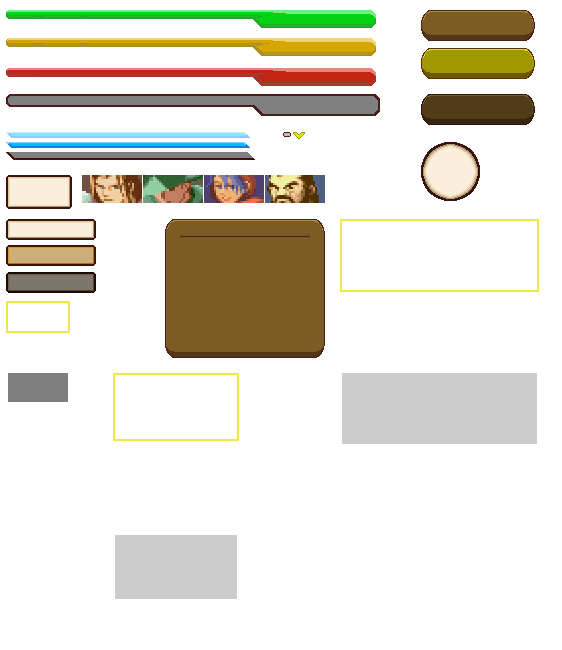
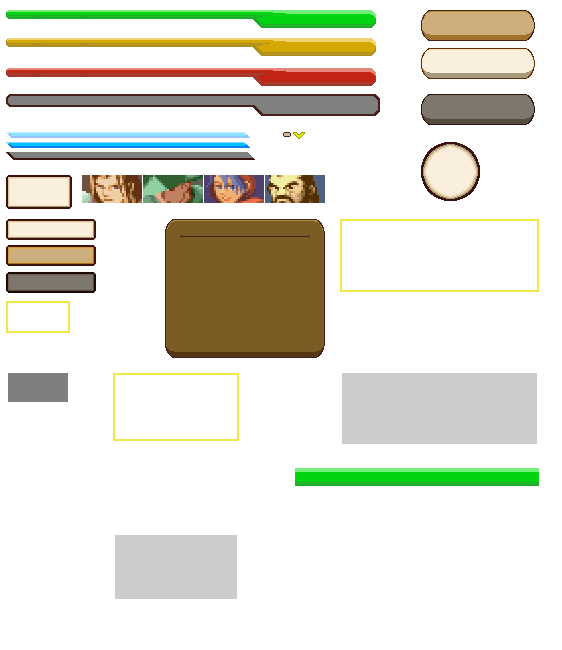
volume bar, changed buttons, centered settings

Changed region(s): [[0.726, 0.0, 0.968, 0.2154], [0.5142, 0.7077, 0.968, 0.7692]]

diff --git a/src/settingsScene.cpp b/src/settingsScene.cpp
@@ -93,24 +93,24 @@ void settingsScene::loadSceneUi() {
 	int modx = 40;
 
 	// Provisional: Positions should be loaded from XML
-	music_down = (Buttons*)App->gui->createButton(MUSIC_VOL_DOWN, LARGE, 0, { config.child("window").child("resolution").attribute("width").as_int() / 2 - 450, 250 }, this);
-	music_up = (Buttons*)App->gui->createButton(MUSIC_VOL_UP, LARGE, 0, { config.child("window").child("resolution").attribute("width").as_int() / 2 + 450, 250 }, this);
-	sfx_down = (Buttons*)App->gui->createButton(SFX_VOL_DOWN, LARGE, 0, { config.child("window").child("resolution").attribute("width").as_int() / 2 - 450, 400 }, this);
-	sfx_up = (Buttons*)App->gui->createButton(SFX_VOL_UP, LARGE, 0, { config.child("window").child("resolution").attribute("width").as_int() / 2 + 450, 400 }, this);
-	colliders = (Buttons*)App->gui->createButton(COLLIDERS, LARGE, 0, { config.child("window").child("resolution").attribute("width").as_int() / 2, 550 }, this);
-	parallax = (Buttons*)App->gui->createButton(PARALLAX, LARGE, 0, { config.child("window").child("resolution").attribute("width").as_int() / 2, 700 }, this);
-	back = (Buttons*)App->gui->createButton(BACK, LARGE, 0, { config.child("window").child("resolution").attribute("width").as_int() / 2, 850 }, this);
+	music_down = (Buttons*)App->gui->createButton(MUSIC_VOL_DOWN, MEDIUM, 0, { config.child("window").child("resolution").attribute("width").as_int() / 2 - 350, 265 }, this);
+	music_up = (Buttons*)App->gui->createButton(MUSIC_VOL_UP, MEDIUM, 0, { config.child("window").child("resolution").attribute("width").as_int() / 2 + 410, 265 }, this);
+	sfx_down = (Buttons*)App->gui->createButton(SFX_VOL_DOWN, MEDIUM, 0, { config.child("window").child("resolution").attribute("width").as_int() / 2 - 350, 425 }, this);
+	sfx_up = (Buttons*)App->gui->createButton(SFX_VOL_UP, MEDIUM, 0, { config.child("window").child("resolution").attribute("width").as_int() / 2 + 410, 425 }, this);
+	colliders = (Buttons*)App->gui->createButton(COLLIDERS, MEDIUM, 0, { config.child("window").child("resolution").attribute("width").as_int() / 2+20, 550 }, this);
+	parallax = (Buttons*)App->gui->createButton(PARALLAX, MEDIUM, 0, { config.child("window").child("resolution").attribute("width").as_int() / 2+20, 700 }, this);
+	back = (Buttons*)App->gui->createButton(BACK, MEDIUM, 0, { config.child("window").child("resolution").attribute("width").as_int() / 2+20, 850 }, this);
 	// Provisional: Data should be loaded from XML
-	l_music_down = (Labels*)App->gui->createLabel("Volume Down", { 255, 255, 255 }, App->fonts->large_size, { config.child("window").child("resolution").attribute("width").as_int() / 2 - 450 + modx, 250 + mody }, this);
-	l_music_up = (Labels*)App->gui->createLabel("Volume Up", { 255, 255, 255 }, App->fonts->large_size, { config.child("window").child("resolution").attribute("width").as_int() / 2 + 450 + modx, 250 + mody}, this);
-	l_sfx_down = (Labels*)App->gui->createLabel("SFX Down", { 255, 255, 255 }, App->fonts->large_size, { config.child("window").child("resolution").attribute("width").as_int() / 2 - 450 + modx, 400 + mody }, this);
-	l_sfx_up = (Labels*)App->gui->createLabel("SFX Up", { 255, 255, 255 }, App->fonts->large_size, { config.child("window").child("resolution").attribute("width").as_int() / 2 + 450 + modx, 400 + mody }, this);
-	l_colliders = (Labels*)App->gui->createLabel("Colliders", { 255, 255, 255 }, App->fonts->large_size, { config.child("window").child("resolution").attribute("width").as_int() / 2 + modx, 550 + mody }, this);
-	l_parallax = (Labels*)App->gui->createLabel("Parallax", { 255, 255, 255 }, App->fonts->large_size, { config.child("window").child("resolution").attribute("width").as_int() / 2 + modx, 700 + mody }, this);
-	l_back = (Labels*)App->gui->createLabel("Back", { 255, 255, 255 }, App->fonts->large_size, { config.child("window").child("resolution").attribute("width").as_int() / 2 + modx, 850 + mody }, this);
+	l_music_down = (Labels*)App->gui->createLabel("Volume Down", { 112, 62, 62 }, App->fonts->large_size, { config.child("window").child("resolution").attribute("width").as_int() / 2 - 387 + modx, 240 + mody }, this);
+	l_music_up = (Labels*)App->gui->createLabel("Volume Up", { 112, 62, 62 }, App->fonts->large_size, { config.child("window").child("resolution").attribute("width").as_int() / 2 + 400 + modx, 240 + mody}, this);
+	l_sfx_down = (Labels*)App->gui->createLabel("SFX Down", { 112, 62, 62 }, App->fonts->large_size, { config.child("window").child("resolution").attribute("width").as_int() / 2 - 350 + modx, 400 + mody }, this);
+	l_sfx_up = (Labels*)App->gui->createLabel("SFX Up", { 112, 62, 62 }, App->fonts->large_size, { config.child("window").child("resolution").attribute("width").as_int() / 2 + 430 + modx, 400 + mody }, this);
+	l_colliders = (Labels*)App->gui->createLabel("Colliders", { 112, 62, 62 }, App->fonts->large_size, { config.child("window").child("resolution").attribute("width").as_int() / 2 + modx + 10, 525 + mody }, this);
+	l_parallax = (Labels*)App->gui->createLabel("Parallax", { 112, 62, 62 }, App->fonts->large_size, { config.child("window").child("resolution").attribute("width").as_int() / 2 + modx + 20, 675 + mody }, this);
+	l_back = (Labels*)App->gui->createLabel("Back", { 112, 62, 62 }, App->fonts->large_size, { config.child("window").child("resolution").attribute("width").as_int() / 2 + modx + 60, 825 + mody }, this);
 
-	b_music = (Bars*)App->gui->createBar(MUSIC_VOL_BAR, { config.child("window").child("resolution").attribute("width").as_int() / 2, 250 }, false, 1, this);
-	b_sfx = (Bars*)App->gui->createBar(SFX_VOL_BAR, { config.child("window").child("resolution").attribute("width").as_int() / 2, 400 }, false, 1, this);
+	b_music = (Bars*)App->gui->createBar(MUSIC_VOL_BAR, { config.child("window").child("resolution").attribute("width").as_int() / 2, 230 }, false, 1, this);
+	b_sfx = (Bars*)App->gui->createBar(SFX_VOL_BAR, { config.child("window").child("resolution").attribute("width").as_int() / 2, 390 }, false, 1, this);
 }
 
 void settingsScene::assignFocus() {

diff --git a/src/Bars.cpp b/src/Bars.cpp
@@ -87,6 +87,7 @@ void Bars::updateBarGauge() {
 void Bars::loadGuiFromAtlas()	{
 	pugi::xml_node hp = data.child("hp");
 	pugi::xml_node super = data.child("super");
+	pugi::xml_node volume = data.child("volume");
 	pugi::xml_node border;
 	pugi::xml_node gauge;
 	std::string filepath;
@@ -118,23 +119,23 @@ void Bars::loadGuiFromAtlas()	{
 		break;
 	case MUSIC_VOL_BAR:
 		relative_pos = { -75, 50 };
-		gauge = super.child("gauge");
+		gauge = volume.child("gauge");
 		getSection({ border.attribute("x").as_int(), border.attribute("y").as_int(), border.attribute("w").as_int(), border.attribute("h").as_int() },
 		{ gauge.attribute("x").as_int(),gauge.attribute("y").as_int(), gauge.attribute("w").as_int(), gauge.attribute("h").as_int() });
-		full_gauge.x = super.child("full_gauge").attribute("x").as_int();
-		full_gauge.y = super.child("full_gauge").attribute("y").as_int();
-		full_gauge.h = super.child("full_gauge").attribute("h").as_int();
-		full_gauge.w = super.child("full_gauge").attribute("w").as_int();
+		full_gauge.x = volume.child("full_gauge").attribute("x").as_int();
+		full_gauge.y = volume.child("full_gauge").attribute("y").as_int();
+		full_gauge.h = volume.child("full_gauge").attribute("h").as_int();
+		full_gauge.w = volume.child("full_gauge").attribute("w").as_int();
 		break;
 	case SFX_VOL_BAR:
 		relative_pos = { -75, 50 };
-		gauge = super.child("gauge");
+		gauge = volume.child("gauge");
 		getSection({ border.attribute("x").as_int(), border.attribute("y").as_int(), border.attribute("w").as_int(), border.attribute("h").as_int() },
 		{ gauge.attribute("x").as_int(),gauge.attribute("y").as_int(), gauge.attribute("w").as_int(), gauge.attribute("h").as_int() });
-		full_gauge.x = super.child("full_gauge").attribute("x").as_int();
-		full_gauge.y = super.child("full_gauge").attribute("y").as_int();
-		full_gauge.h = super.child("full_gauge").attribute("h").as_int();
-		full_gauge.w = super.child("full_gauge").attribute("w").as_int();
+		full_gauge.x = volume.child("full_gauge").attribute("x").as_int();
+		full_gauge.y = volume.child("full_gauge").attribute("y").as_int();
+		full_gauge.h = volume.child("full_gauge").attribute("h").as_int();
+		full_gauge.w = volume.child("full_gauge").attribute("w").as_int();
 		break;
 	case NO_BAR:
 		LOG("Non valid Bar type");
